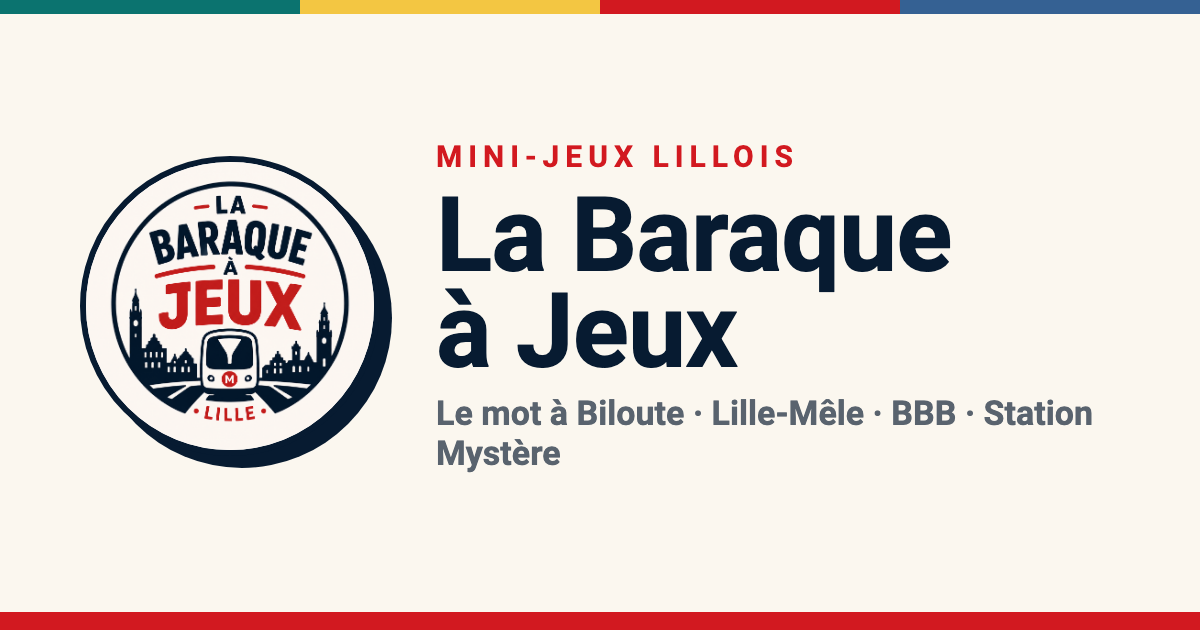
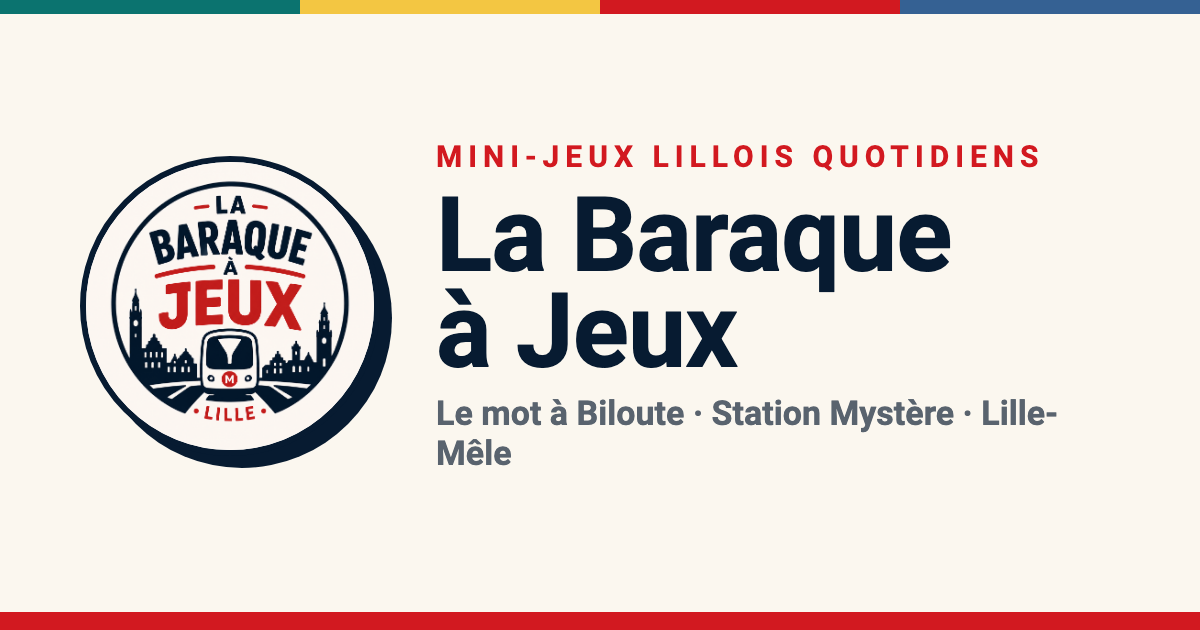
fix(portail): compacter le mobile pour afficher les 3 jeux sans scroll

Changed region(s): [[0.5858, 0.6333, 0.925, 0.6937], [0.6783, 0.2111, 0.8633, 0.2714], [0.37, 0.6937, 0.4625, 0.754]]

diff --git a/packages/ui/components.css b/packages/ui/components.css
@@ -271,7 +271,7 @@ body.labaj-site {
   }
 
   .games-grid {
-    grid-template-columns: repeat(2, minmax(0, 1fr));
+    grid-template-columns: repeat(3, minmax(0, 1fr));
   }
 }
 
@@ -548,5 +548,60 @@ body.labaj-site {
   to {
     transform: translateY(104vh) rotate(560deg);
     opacity: 0.2;
+  }
+}
+
+/* ===== Portail compact sur mobile : faire tenir les 3 jeux sans scroller ===== */
+@media (max-width: 600px) {
+  .page-shell {
+    padding: 12px 0 14px;
+    gap: 10px;
+  }
+
+  .intro {
+    gap: 5px;
+  }
+
+  .intro h1 {
+    font-size: clamp(1.85rem, 8.4vw, 2.6rem);
+    line-height: 1;
+  }
+
+  .intro p:not(.eyebrow) {
+    font-size: 0.92rem;
+    line-height: 1.34;
+  }
+
+  .games-section {
+    gap: 10px;
+  }
+
+  .game-prompt {
+    font-size: 1.02rem;
+    line-height: 1.2;
+  }
+
+  .games-progress {
+    margin-top: 2px;
+    font-size: 0.86rem;
+  }
+
+  .games-grid {
+    gap: 8px;
+  }
+
+  .game-card {
+    min-height: 0;
+    padding: 11px 13px;
+    gap: 4px;
+  }
+
+  .game-card strong {
+    font-size: 1.45rem;
+  }
+
+  .game-card > span:last-child {
+    font-size: 0.88rem;
+    line-height: 1.3;
   }
 }

diff --git a/index.html b/index.html
@@ -12,7 +12,7 @@
     <meta property="og:type" content="website" />
     <meta
       property="og:description"
-      content="Des mini-jeux lillois à lancer en un geste : Le mot à Biloute, Lille-Mêle, Biloute · Bière · Braderie et Station Mystère."
+      content="Des mini-jeux lillois quotidiens à lancer en un geste : Le mot à Biloute, Station Mystère et Lille-Mêle."
     />
     <meta property="og:image" content="https://dr-john-8bits.github.io/la-baraque-a-jeux/assets/brand/og-image.png" />
     <meta property="og:url" content="https://dr-john-8bits.github.io/la-baraque-a-jeux/" />
@@ -121,19 +121,6 @@
             </span>
             <strong>Lille-Mêle</strong>
             <span>Regroupe les indices et retrouve les familles lilloises.</span>
-          </a>
-
-          <a
-            class="game-card game-card--triangle"
-            href="apps/biloute-biere-braderie/"
-            aria-label="Ouvrir Biloute Bière Braderie"
-          >
-            <span class="game-card__top">
-              <span class="game-card__tag">Ch’tifoumi</span>
-              <span class="game-card__action" aria-hidden="true">Jouer</span>
-            </span>
-            <strong>Biloute · Bière · Braderie</strong>
-            <span>Affronte l'ordinateur dans le triangle le plus lillois du quartier.</span>
           </a>
         </div>
       </section>

diff --git a/sw.js b/sw.js
@@ -12,7 +12,7 @@
  * Les chemins sont relatifs au service worker (racine du déploiement), donc portables
  * que le site soit servi à la racine d'un domaine ou dans un sous-dossier GitHub Pages.
  */
-const VERSION = "labaj-v2-2026-06-14";
+const VERSION = "labaj-v3-2026-06-14";
 const CACHE = `labaj-${VERSION}`;
 
 const CORE = [

diff --git a/apps/biloute-biere-braderie/ROADMAP.md b/apps/biloute-biere-braderie/ROADMAP.md
@@ -7,7 +7,7 @@ Le principe actuel : lancer `CH'TI FOU MI`, choisir avant la fin du compte à re
 
 Version jouable en webapp statique :
 
-- intégration dans `apps/biloute-biere-braderie/` et dans le portail ;
+- code dans `apps/biloute-biere-braderie/` (jeu toujours jouable par URL), mais **retiré du portail** depuis juin 2026 — voir la décision ci-dessous ;
 - thème `Biloute · Bière · Braderie` avec sous-titre et règles du triangle ;
 - règles locales :
   - Biloute bat Bière ;
@@ -29,6 +29,30 @@ Version jouable en webapp statique :
 - partage du résultat ;
 - stockage local des statistiques de base ;
 - `window.render_game_to_text()` et `window.advanceTime(ms)` disponibles pour les tests.
+
+## Décision (juin 2026) · retiré du portail
+
+BBB a été **débranché du portail** (carte, OG, sitemap), le code restant en place. Raison : c'est un **jeu de pur hasard**. L'ordinateur joue 100 % aléatoirement (`getComputerChoice()` = `Math.random()`), donc contre lui le choix du joueur ne change rien (1/3 gagné, 1/3 nul, 1/3 perdu). Le seul « skill » est de cliquer avant la fin des 3 s. Le jeu détonne sur les 3 axes qui font la force des autres : il n'est ni **quotidien**, ni un **puzzle**, ni **éducatif sur Lille** (juste de l'habillage ch'ti sur du pierre-papier-ciseaux).
+
+**Condition de retour au portail : lui donner un cerveau (Priorité 0 ci-dessous).** Sans ça, ne pas le réafficher.
+
+## Priorité 0 · Lui donner un cerveau (IA prédictive, sans API ni serveur)
+
+C'est *le* chantier qui transforme BBB de « pile ou face » en vrai jeu d'adresse : « bats le bot ch'ti qui apprend tes tics ». **Aucune IA distante, aucune clé API** : un humain est mauvais pour être aléatoire (il rejoue le coup gagnant, change après une défaite, évite de répéter, a un favori). Un petit prédicteur exploite ces tics.
+
+Approche :
+
+- modèle de fréquences conditionné par le **contexte** = `dernier coup du joueur` + `résultat de la manche précédente` (les humains « stick after a win, switch after a loss ») ;
+- à chaque tour : prédire le coup le plus probable du joueur dans ce contexte, puis jouer **le contre** ;
+- les données sont **déjà là** : `state.history` garde les coups. ~30-40 lignes de JS pur dans `getComputerChoice()`.
+
+Dosage (essentiel pour que ce soit fun, pas frustrant) :
+
+- contrer seulement **55-65 % du temps**, jouer aléatoire le reste — sinon le bot devient imbattable ;
+- exposable comme niveaux de difficulté : `Biloute débutant` (≈ aléatoire) → `Biloute madré` (prédiction agressive) ;
+- ajouter un feedback quand le bot anticipe (« 👀 le bot a senti ton coup venir ») pour rendre la méta lisible.
+
+Effort estimé : **S–M** (une après-midi). Le prédicteur est trivial ; le travail est le réglage et le feedback. Quand c'est fait et amusant, on peut réintégrer la carte au portail.
 
 ## Décisions UX actées
 